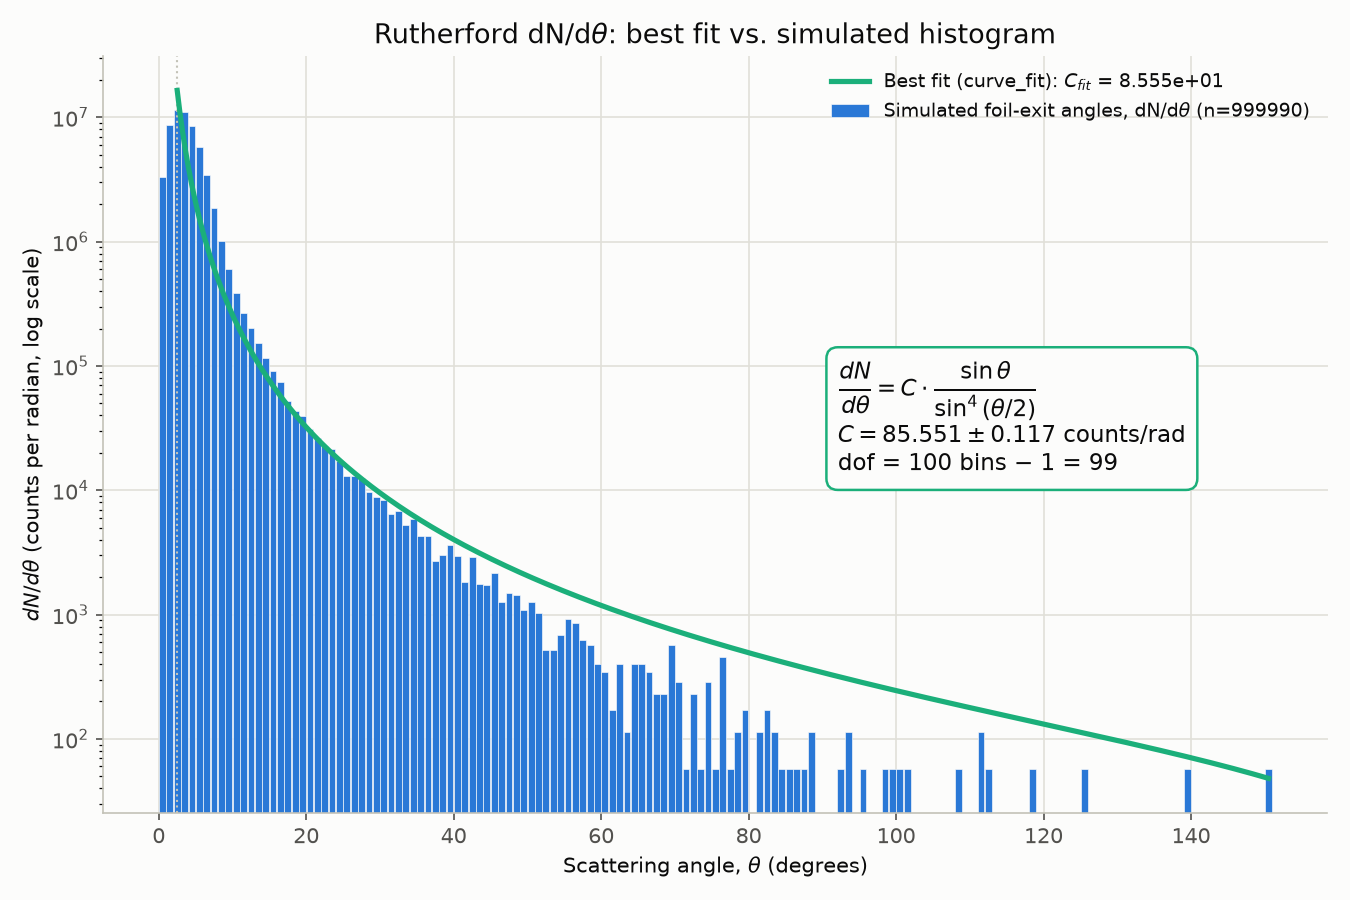
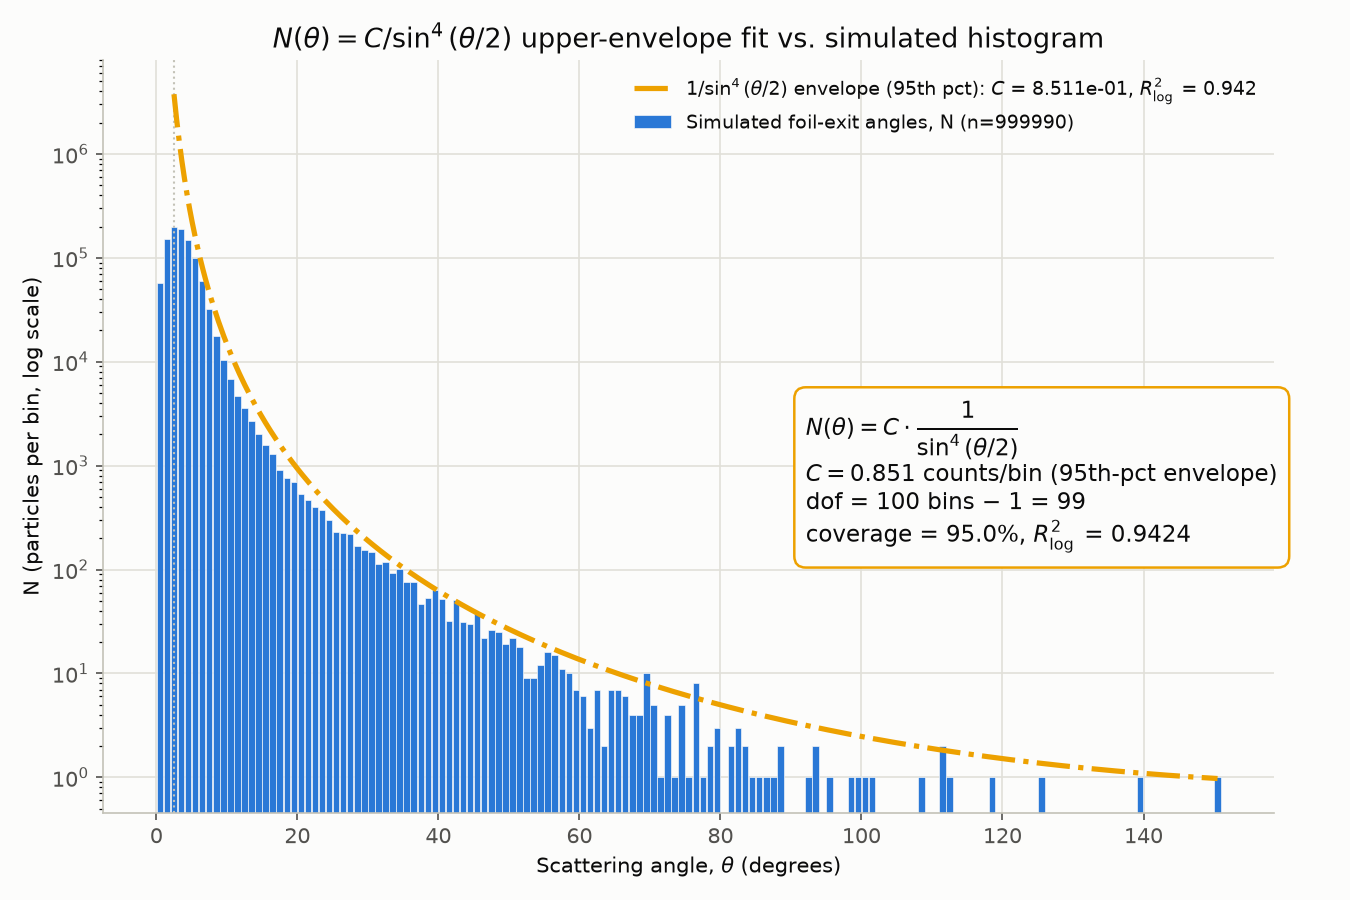
Simplify Rutherford fit plot to N-space envelope curve with log-space R^2
Drop the sin(theta)/sin^4(theta/2) best-fit and theory curves from the
plot entirely, keeping only the bare N(theta) = C/sin^4(theta/2)
upper-envelope regression (quantile method, not least-squares). Switch
its R^2 to log10(N) space since the linear-space version was dominated
by a single near-theta_min bin across ~6 orders of magnitude of data.

diff --git a/curvefitting/rutherford_curve_fit.py b/curvefitting/rutherford_curve_fit.py
@@ -74,8 +74,7 @@ DATA_DIR = os.path.join(REPO_ROOT, "data")
 # dataviz reference palette (validated CVD-safe triple, see
 # fit_dndtheta_envelope.py / MEMORY for the validation run):
 COLOR_BARS = "#2a78d6"      # histogram
-COLOR_THEORY = "#eb6834"    # theoretical curve (computed, no fitting)
-COLOR_FIT = "#1baf7a"       # best-fit curve
+COLOR_ENVELOPE = "#eda100"  # upper-envelope fit, N(theta) = C/sin^4(theta/2)
 COLOR_INK = "#0b0b0b"
 COLOR_SECONDARY_INK = "#52514e"
 COLOR_GRID = "#e1e0d9"
@@ -111,6 +110,36 @@ def load_angles(csv_path):
 def dndtheta_model(theta_deg, C):
     theta_rad = np.radians(theta_deg)
     return C * np.sin(theta_rad) / np.sin(theta_rad / 2.0) ** 4
+
+
+# ---------------------------------------------------------------------
+# Bare 1/sin^4(theta/2) shape -- the raw Rutherford cross-section without
+# the sin(theta) solid-angle Jacobian that turns it into dN/dtheta. Not
+# the correct shape for a counts-vs-theta histogram (see docstring), but
+# fit directly against N here as a second, purely empirical regression to
+# compare against the physically-correct curve above.
+# ---------------------------------------------------------------------
+def inv_sin4_shape(theta_deg):
+    theta_rad = np.radians(theta_deg)
+    return 1.0 / np.sin(theta_rad / 2.0) ** 4
+
+
+def inv_sin4_model(theta_deg, C):
+    return C * inv_sin4_shape(theta_deg)
+
+
+def r_squared_log10(y, y_pred):
+    """R^2 on log10(y) vs log10(y_pred), one point per bin (bin center, bin
+    top). This data spans ~6 orders of magnitude, so a linear-space R^2 is
+    dominated almost entirely by the single largest-count bin (verified: for
+    this dataset one bin alone accounted for >95% of the linear sum of
+    squared residuals) -- log-space matches the log-scale y-axis these plots
+    already use and reflects fit quality across all bins, not just the peak."""
+    logy = np.log10(np.asarray(y, dtype=float))
+    logpred = np.log10(y_pred)
+    ss_res = np.sum((logy - logpred) ** 2)
+    ss_tot = np.sum((logy - logy.mean()) ** 2)
+    return 1.0 - ss_res / ss_tot
 
 
 def theoretical_amplitude(n_total, Z1, Z2, E_mev, rho, t_cm, M):
@@ -149,10 +178,10 @@ def main():
     parser.add_argument("--rho", type=float, default=19.3, help="target density, g/cm^3 (default 19.3, gold)")
     parser.add_argument("--t", type=float, default=0.0001, help="foil thickness, cm (default 0.0001 = 1 um, matches DetectorConstruction.cc kFoilHalfZ)")
     parser.add_argument("--M", type=float, default=197.0, help="target molar mass, g/mol (default 197, gold)")
+    parser.add_argument("--quantile", type=float, default=0.95,
+                         help="upper-envelope quantile for the bare 1/sin^4(theta/2) regression "
+                              "(default 0.95, matches fit_dndtheta_envelope.py's convention)")
     parser.add_argument("--plot", action="store_true", help="also write a PNG plot")
-    parser.add_argument("--fit-only", action="store_true",
-                         help="in the plot, show only the histogram + best-fit curve (omit the "
-                              "theoretical/computed curve and its legend entry)")
     args = parser.parse_args()
 
     csv_path = args.csv or find_latest_foil_csv()
@@ -210,6 +239,11 @@ def main():
     from scipy.stats import chi2 as chi2_dist
     p_value = float(chi2_dist.sf(chi2, dof)) if dof > 0 else float("nan")
 
+    # R^2 in N (counts-per-bin) space, treating each of the n_bins_fit bins
+    # in the fit region as one point (bin center, bin height/top).
+    fit_N_at_mask = dndtheta_model(centers_deg[mask], C_fit) * binwidth_rad
+    r2_fit = r_squared_log10(counts[mask], fit_N_at_mask)
+
     # ---- theory ------------------------------------------------------
     C_theory, parts = theoretical_amplitude(n_total, args.Z1, args.Z2, args.E, args.rho, args.t, args.M)
 
@@ -235,47 +269,72 @@ def main():
     print(f"  chi2                                               = {chi2:.4f}")
     print(f"  reduced chi2 = chi2 / dof                          = {reduced_chi2:.4f}")
     print(f"  p-value (chi2.sf, dof={dof})                       = {p_value:.4g}")
+    print(f"  R^2 (log10 N space, n={n_bins_fit} fit-region bins)       = {r2_fit:.4f}")
+
+    # ---- second regression: bare C/sin^4(theta/2), upper-envelope fit ----
+    # No Jacobian factor. Per project convention (see fit_dndtheta_envelope.py
+    # / MEMORY), this is an upper-envelope/quantile fit, not least-squares:
+    # for each bin, C_i = N_i / f(theta_i) is the amplitude that makes the
+    # curve pass exactly through that bin; taking the q-th quantile of {C_i}
+    # gives a closed-form curve that sits at/above exactly that fraction of
+    # bins, no optimizer involved.
+    f_vals2 = inv_sin4_shape(centers_deg[mask])
+    c_i2 = counts[mask] / f_vals2
+    C_fit2 = float(np.quantile(c_i2, args.quantile))
+    predicted2 = C_fit2 * f_vals2
+    coverage2 = float(np.mean(counts[mask] <= predicted2))
+    n_params2 = 1
+    dof2 = n_bins_fit - n_params2
+
+    # R^2 over the same n_bins_fit fit-region bins, same convention as r2_fit.
+    r2_fit2 = r_squared_log10(counts[mask], predicted2)
+
+    print()
+    print(f"Upper-envelope fit -- N(theta) = C * 1/sin^4(theta/2), {args.quantile*100:.0f}th percentile of "
+          f"C_i = N_i/f(theta_i) (not least-squares):")
+    print(f"  C_fit             = {C_fit2:.6e} counts/bin")
+    print(f"  dof = {n_bins_fit} bins - {n_params2}                   = {dof2}")
+    print(f"  coverage achieved = {coverage2*100:.2f}% of {n_bins_fit} bins")
+    print(f"  R^2 (log10 N space, n={n_bins_fit} fit-region bins)       = {r2_fit2:.4f}")
 
     if args.plot:
         import matplotlib.pyplot as plt
 
         theta_plot = np.linspace(centers_deg[mask].min(), centers_deg.max(), 400)
-        fit_curve = dndtheta_model(theta_plot, C_fit)
 
         fig, ax = plt.subplots(figsize=(9, 6), dpi=150)
         fig.patch.set_facecolor("#fcfcfb")
         style_axes(ax)
 
-        ax.bar(centers_deg[counts > 0], density[counts > 0], width=args.binwidth * 0.92,
+        ax.bar(centers_deg[counts > 0], counts[counts > 0], width=args.binwidth * 0.92,
                color=COLOR_BARS, edgecolor="#fcfcfb", linewidth=0.3,
-               label=f"Simulated foil-exit angles, dN/d$\\theta$ (n={n_total})")
-        if not args.fit_only:
-            theory_curve = dndtheta_model(theta_plot, C_theory)
-            ax.plot(theta_plot, theory_curve, color=COLOR_THEORY, linewidth=2, linestyle="--",
-                    label=f"Theoretical (computed): $C_{{theory}}$ = {C_theory:.3e}")
-        ax.plot(theta_plot, fit_curve, color=COLOR_FIT, linewidth=2.5, zorder=5,
-                label=f"Best fit (curve_fit): $C_{{fit}}$ = {C_fit:.3e}")
+               label=f"Simulated foil-exit angles, N (n={n_total})")
+        envelope_curve_N = inv_sin4_model(theta_plot, C_fit2)
+        ax.plot(theta_plot, envelope_curve_N, color=COLOR_ENVELOPE, linewidth=2.5, linestyle="-.", zorder=4,
+                label=fr"$1/\sin^4(\theta/2)$ envelope ({args.quantile*100:.0f}th pct): "
+                      fr"$C$ = {C_fit2:.3e}, $R^2_{{\log}}$ = {r2_fit2:.3f}")
         ax.axvline(theta_min, color=COLOR_AXIS, linewidth=1, linestyle=":")
 
         ax.set_yscale("log")
         ax.set_xlabel(r"Scattering angle, $\theta$ (degrees)", color=COLOR_INK)
-        ax.set_ylabel(r"$dN/d\theta$ (counts per radian, log scale)", color=COLOR_INK)
-        title = ("Rutherford dN/d$\\theta$: best fit vs. simulated histogram" if args.fit_only
-                 else "Rutherford dN/d$\\theta$: theory vs. best fit vs. simulated histogram")
-        ax.set_title(title, color=COLOR_INK, fontsize=13)
+        ax.set_ylabel("N (particles per bin, log scale)", color=COLOR_INK)
+        ax.set_title(r"$N(\theta) = C/\sin^4(\theta/2)$ upper-envelope fit vs. simulated histogram",
+                     color=COLOR_INK, fontsize=13)
         ax.legend(frameon=False, labelcolor=COLOR_INK, fontsize=9)
 
         eqn_text = (
-            r"$\dfrac{dN}{d\theta} = C \cdot \dfrac{\sin\theta}{\sin^4(\theta/2)}$"
+            r"$N(\theta) = C \cdot \dfrac{1}{\sin^4(\theta/2)}$"
             "\n"
-            fr"$C = {C_fit:.3f} \pm {C_fit_err:.3f}$ counts/rad"
+            fr"$C = {C_fit2:.3f}$ counts/bin ({args.quantile*100:.0f}th-pct envelope)"
             "\n"
-            fr"dof = {n_bins_fit} bins $-$ {n_params} = {dof}"
+            fr"dof = {n_bins_fit} bins $-$ {n_params2} = {dof2}"
+            "\n"
+            fr"coverage = {coverage2*100:.1f}%, $R^2_{{\log}}$ = {r2_fit2:.4f}"
         )
-        ax.text(0.60, 0.60, eqn_text, transform=ax.transAxes, fontsize=11,
+        ax.text(0.60, 0.55, eqn_text, transform=ax.transAxes, fontsize=11,
                 color=COLOR_INK, ha="left", va="top",
                 bbox=dict(boxstyle="round,pad=0.5", facecolor="#fcfcfb",
-                          edgecolor=COLOR_FIT, linewidth=1.2))
+                          edgecolor=COLOR_ENVELOPE, linewidth=1.2))
 
         fig.tight_layout()
 